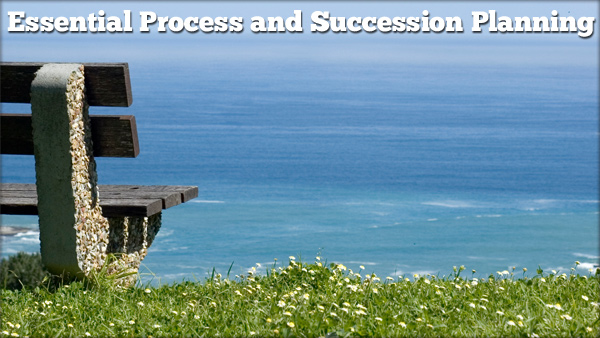
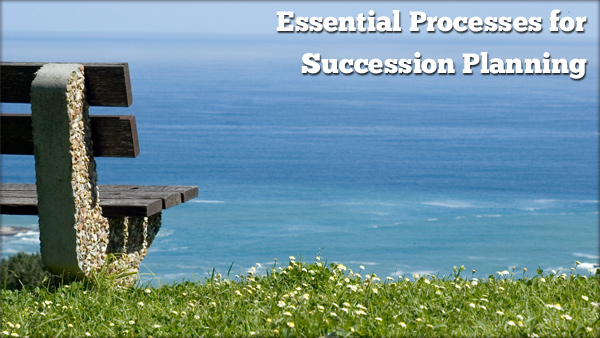
Val's changes

Changed region(s): [[0.0, 0.0296, 1.0, 0.1183], [0.48, 0.1479, 0.99, 0.2367]]

diff --git a/index.html b/index.html
@@ -15,6 +15,12 @@
     <div id ="container">
       <div id="three-circles"></div>
       <div id="header">
+        <div class="float-right">
+          <ul>  
+            <li>204-782-2709</li>
+            <li>204-782-2709</li>
+          </ul>
+        </div>
         <div id="header-container">
           <div id="menu" class="float-right">
             <ul>
@@ -44,7 +50,7 @@
                 <img src="images/slide-2.jpg" alt="Family Dynamics that Impact  Business Effectiveness"/>
               </div>
               <div>
-                <img src="images/slide-3.jpg" alt="Essential Process and Succession Planning"/>
+                <img src="images/slide-3.jpg" alt="Essential Processes for Succession Planning"/>
               </div>
               <div>
                 <img src="images/slide-4.jpg" alt="Mastering Effective Communication"/>

diff --git a/css/styles.css b/css/styles.css
@@ -165,7 +165,8 @@ strong {
 }
 
 #header {
-  width: 100%;
+  width: 960px;
+  margin: 0 auto;
   height: 200px;
 }
 
@@ -175,14 +176,13 @@ strong {
 }
 
 #header-logo {
-  margin-top: 15px;
+  margin-top: -15px;
 }
 
 #menu {
   position: relative;
-  float: right;
   top: 168px;
-  right: 31px;
+  right: -68px;
 }
 
 #menu li {
